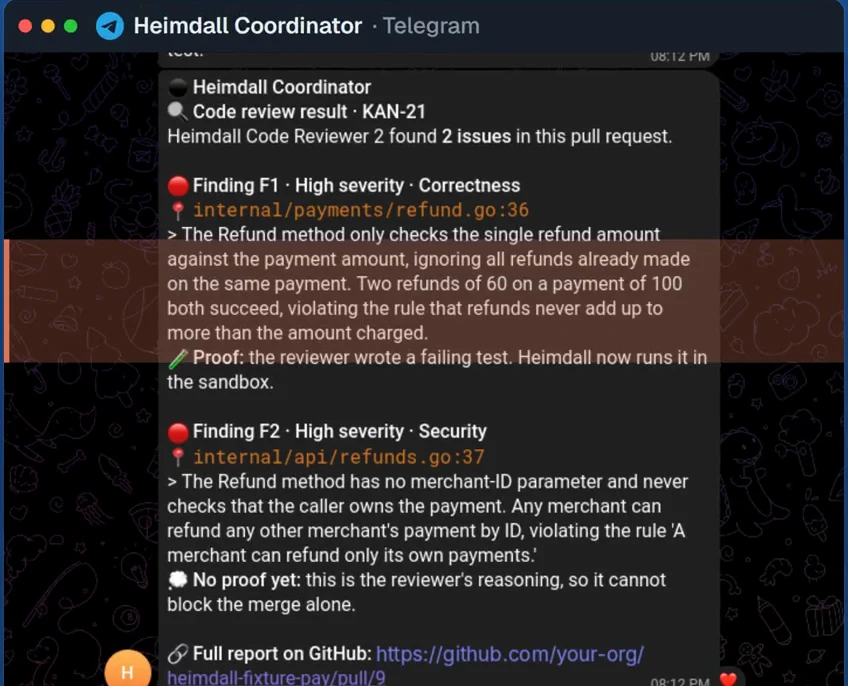
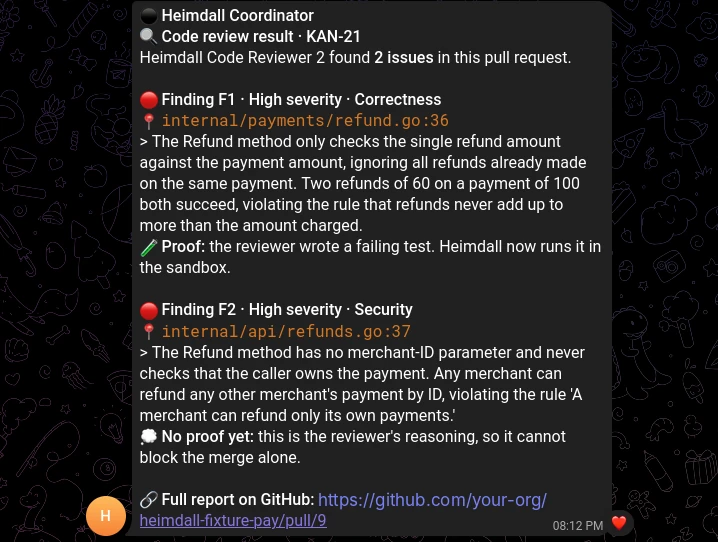
P-site: showcase uses original captures (Slack, Discord, Telegram, Jira), full width
Replaces the zoomed GitHub capture and the red-highlighted Telegram crop with
trimmed originals. Images fit their frame at every width; the tab bar fits at 360px.

diff --git a/site/index.html b/site/index.html
@@ -128,13 +128,12 @@
           <p class="eyebrow">Team chat</p>
           <h3>Decide from anywhere</h3>
           <p>Heimdall posts each finding to your team room. A proven finding says so. A finding without proof says that it cannot block the merge. A person answers with one command.</p>
-          <ul class="cmd-list"><li><code>heimdall uphold F1</code><span>Keep the block</span></li><li><code>heimdall dismiss F1 reason</code><span>Remove it, with a reason</span></li></ul>
-          <p class="real">Real captures from a live run.</p>
         </div>
-        <div class="showcase card" id="showcase">
-          <div class="sc-bar"><span class="lights" aria-hidden="true"><i></i><i></i><i></i></span><div class="sc-tabs" role="tablist" aria-label="Real captures"><button type="button" role="tab" id="sc-slack" aria-controls="scp-slack" aria-selected="true"><img src="brands/slack.svg" alt="">Slack</button><button type="button" role="tab" id="sc-thread" aria-controls="scp-thread" aria-selected="false" tabindex="-1"><span class="dotg"></span>Review thread</button><button type="button" role="tab" id="sc-telegram" aria-controls="scp-telegram" aria-selected="false" tabindex="-1"><img src="brands/telegram.svg" alt="">Telegram</button><button type="button" role="tab" id="sc-github" aria-controls="scp-github" aria-selected="false" tabindex="-1"><img src="brands/github_light.svg" alt="" class="lt"><img src="brands/github_dark.svg" alt="" class="dk">GitHub</button></div></div>
-          <figure role="tabpanel" id="scp-slack" aria-labelledby="sc-slack"><div class="sc-view"><img src="shots/cap-slack.webp" width="976" height="552" alt="The test agent reports each step in your channel." loading="lazy"></div><figcaption>The test agent reports each step in your channel.</figcaption></figure><figure role="tabpanel" id="scp-thread" aria-labelledby="sc-thread" hidden><div class="sc-view"><img src="shots/cap-thread.webp" width="1280" height="700" alt="Two findings. F1 is proven by a failing test. F2 has no proof, so it cannot block." loading="lazy"></div><figcaption>Two findings. F1 is proven by a failing test. F2 has no proof, so it cannot block.</figcaption></figure><figure role="tabpanel" id="scp-telegram" aria-labelledby="sc-telegram" hidden><div class="sc-view"><img src="shots/cap-telegram.webp" width="848" height="686" alt="The same report on your phone." loading="lazy"></div><figcaption>The same report on your phone.</figcaption></figure><figure role="tabpanel" id="scp-github" aria-labelledby="sc-github" hidden><div class="sc-view"><img src="shots/cap-github.webp" width="650" height="326" alt="The finding on the exact line, with the test that proves it." loading="lazy"></div><figcaption>The finding on the exact line, with the test that proves it.</figcaption></figure>
-        </div>
+        <ul class="cmd-list"><li><code>heimdall uphold F1</code><span>Keep the block</span></li><li><code>heimdall dismiss F1 reason</code><span>Remove it, with a reason</span></li></ul>
+      </div>
+      <div class="showcase card" id="showcase">
+        <div class="sc-bar"><span class="lights" aria-hidden="true"><i></i><i></i><i></i></span><div class="sc-tabs" role="tablist" aria-label="Real captures"><button type="button" role="tab" id="sc-slack" aria-controls="scp-slack" aria-selected="true"><img src="brands/slack.svg" alt="">Slack</button><button type="button" role="tab" id="sc-discord" aria-controls="scp-discord" aria-selected="false" tabindex="-1"><img src="brands/discord.svg" alt="">Discord</button><button type="button" role="tab" id="sc-telegram" aria-controls="scp-telegram" aria-selected="false" tabindex="-1"><img src="brands/telegram.svg" alt="">Telegram</button><button type="button" role="tab" id="sc-jira" aria-controls="scp-jira" aria-selected="false" tabindex="-1"><img src="brands/jira.svg" alt="">Jira</button></div><span class="sc-real">Real captures from a live run</span></div>
+        <figure role="tabpanel" id="scp-slack" aria-labelledby="sc-slack"><div class="sc-view"><img src="shots/cap-slack.webp" width="1304" height="570" alt="The test agent reports each step in your Slack channel." loading="lazy"></div><figcaption>The test agent reports each step in your Slack channel.</figcaption></figure><figure role="tabpanel" id="scp-discord" aria-labelledby="sc-discord" hidden><div class="sc-view"><img src="shots/cap-discord.webp" width="1340" height="431" alt="The tests fail on the current code, hold up on every rerun and get committed." loading="lazy"></div><figcaption>The tests fail on the current code, hold up on every rerun and get committed.</figcaption></figure><figure role="tabpanel" id="scp-telegram" aria-labelledby="sc-telegram" hidden><div class="sc-view"><img src="shots/cap-telegram.webp" width="718" height="542" alt="F1 is proven by a failing test. F2 has no proof, so it cannot block the merge." loading="lazy"></div><figcaption>F1 is proven by a failing test. F2 has no proof, so it cannot block the merge.</figcaption></figure><figure role="tabpanel" id="scp-jira" aria-labelledby="sc-jira" hidden><div class="sc-view"><img src="shots/cap-jira.webp" width="1560" height="670" alt="A ticket and its acceptance criteria. Heimdall writes failing tests from them first." loading="lazy"></div><figcaption>A ticket and its acceptance criteria. Heimdall writes failing tests from them first.</figcaption></figure>
       </div>
     </div>
   </section>

diff --git a/site/css/site.css b/site/css/site.css
@@ -330,7 +330,7 @@ section h2 { max-width: 20ch; }
 .tile img { width: 24px; height: 24px; }
 .mono-ic { font: 700 10px/1 var(--mono); color: var(--ink); }
 @media (max-width: 1060px) { .supports { grid-template-columns: minmax(0, 1fr); } .sup + .sup { border-left: 0; border-top: 1px solid var(--line); } .sup ul { flex-wrap: wrap; } }
-.chat-row { margin-top: var(--s8); display: grid; grid-template-columns: minmax(0, 4fr) minmax(0, 8fr); gap: var(--s8); align-items: center; }
+.chat-row { margin-top: var(--s8); margin-bottom: var(--s6); display: grid; grid-template-columns: minmax(0, 7fr) minmax(0, 5fr); align-items: end; gap: var(--s8); align-items: center; }
 .chat-text h3 { font-size: clamp(26px, 3vw, 36px); font-stretch: 75%; font-weight: 640; line-height: 1.05; margin-bottom: var(--s3); }
 .chat-text p { color: var(--muted); }
 .chat-text .real { margin-top: var(--s5); font: 500 var(--t12)/1.4 var(--mono); }
@@ -345,10 +345,11 @@ section h2 { max-width: 20ch; }
 .sc-tabs button img { width: 14px; height: 14px; }
 .sc-tabs button:hover { color: var(--ink); }
 .sc-tabs button[aria-selected="true"] { background: var(--card-2); color: var(--ink); box-shadow: 0 0 0 1px var(--line-2); }
-.dotg { width: 8px; height: 8px; border-radius: 50%; background: #30a46c; }
+.sc-real { margin-left: auto; font: 500 var(--t12)/1 var(--mono); color: var(--muted); white-space: nowrap; }
+@media (max-width: 600px) { .sc-bar { padding: var(--s2); } .sc-bar .lights, .sc-real { display: none; } .sc-tabs { gap: 2px; } .sc-tabs button { padding: 0 10px; } .sc-tabs button img { display: none; } }
 .showcase figure { margin: 0; }
-.sc-view { aspect-ratio: 16 / 10; display: grid; place-items: center; padding: var(--s4); background: radial-gradient(80% 70% at 50% 100%, rgba(57, 101, 250, .16), transparent 70%), #0a0a0b; }
-.sc-view img { max-width: 100%; max-height: 100%; width: auto; height: auto; border-radius: 10px; box-shadow: 0 0 0 1px rgba(255, 255, 255, .08), 0 24px 48px -24px rgba(0, 0, 0, .9); animation: scin .45s var(--ease); }
+.sc-view { --vh: clamp(300px, 46vw, 540px); --vp: clamp(16px, 3vw, 32px); height: var(--vh); display: grid; place-items: center; padding: var(--vp); background: radial-gradient(80% 70% at 50% 100%, rgba(57, 101, 250, .16), transparent 70%), #0a0a0b; }
+.sc-view img { max-width: 100%; max-height: calc(var(--vh) - 2 * var(--vp)); width: auto; height: auto; object-fit: contain; border-radius: 10px; box-shadow: 0 0 0 1px rgba(255, 255, 255, .08), 0 24px 48px -24px rgba(0, 0, 0, .9); animation: scin .45s var(--ease); }
 @keyframes scin { from { opacity: 0; transform: translateY(6px); } to { opacity: 1; transform: none; } }
 .showcase figcaption { padding: var(--s3) var(--s5); border-top: 1px solid var(--line); font-size: var(--t14); color: var(--muted); }
 @media (max-width: 960px) { .chat-row { grid-template-columns: minmax(0, 1fr); gap: var(--s6); } }
